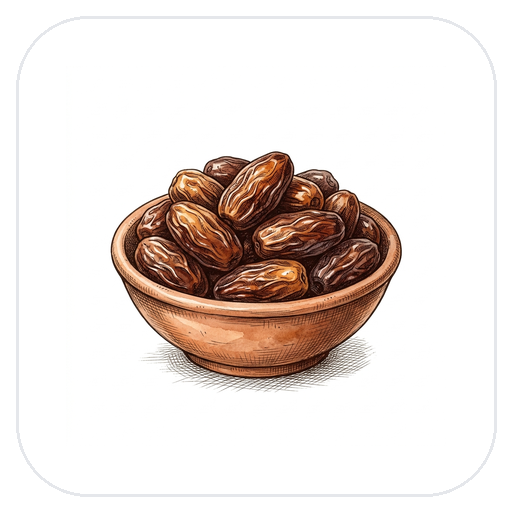
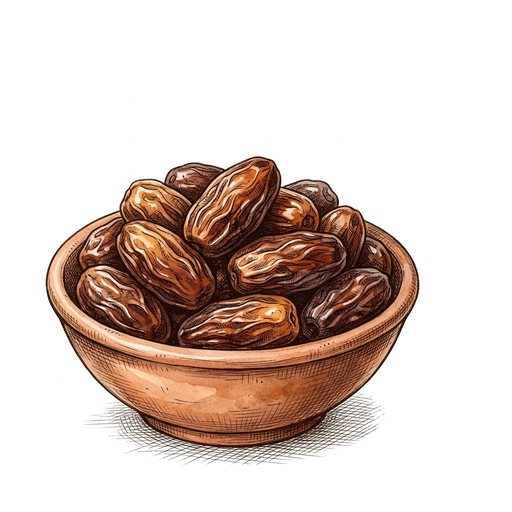
style(category): change category photo container to 4-cornered rounded card (squircle) instead of round

diff --git a/src/components/HomeCategoryShowcase.tsx b/src/components/HomeCategoryShowcase.tsx
@@ -189,23 +189,23 @@ export const HomeCategoryShowcase: React.FC = () => {
                     title={`${item.name} দেখুন`}
                     className="group flex flex-col items-center justify-start w-full text-center transition-all duration-300 focus:outline-hidden cursor-pointer select-none"
                   >
-                    {/* সার্কুলার ব্যাজ র্যাপার উইথ গোল্ডেন লাইটিং রিং */}
+                    {/* ৪ কোণা (Squircle) ব্যাজ র্যাপার উইথ গোল্ডেন লাইটিং রিং */}
                     <div className="relative flex items-center justify-center">
                       {/* লাইটিং অরা / পালসিং হ্যালো */}
                       <div
-                        className={`absolute -inset-1.5 rounded-full transition-all duration-300 opacity-60 group-hover:opacity-100 group-hover:scale-110 blur-[4px] ${
+                        className={`absolute -inset-1.5 rounded-2xl transition-all duration-300 opacity-60 group-hover:opacity-100 group-hover:scale-105 blur-[4px] ${
                           isOffer
                             ? 'bg-gradient-to-tr from-red-500 via-amber-400 to-orange-500 animate-pulse'
                             : 'bg-gradient-to-tr from-amber-300 via-amber-400 to-yellow-200 group-hover:blur-[6px]'
                         }`}
                       />
 
-                      {/* ব্যাজ ইমেজ কন্টেইনার (স্কেল অনুযায়ী বড় ও স্পষ্ট) */}
+                      {/* ব্যাজ ইমেজ কন্টেইনার (৪ কোণা স্কোয়ার্কল কার্ড - স্কেল অনুযায়ী বড় ও স্পষ্ট) */}
                       <div
-                        className={`relative w-12 h-12 sm:w-14 sm:h-14 md:w-16 md:h-16 lg:w-[70px] lg:h-[70px] xl:w-[78px] xl:h-[78px] 2xl:w-[82px] 2xl:h-[82px] rounded-full bg-white p-0.5 sm:p-1 flex items-center justify-center shadow-md transition-all duration-300 group-hover:-translate-y-1 group-hover:scale-105 active:scale-95 ${
+                        className={`relative w-12 h-12 sm:w-14 sm:h-14 md:w-16 md:h-16 lg:w-[70px] lg:h-[70px] xl:w-[78px] xl:h-[78px] 2xl:w-[82px] 2xl:h-[82px] rounded-2xl bg-white p-1 sm:p-1.5 flex items-center justify-center shadow-md transition-all duration-300 group-hover:-translate-y-1 group-hover:scale-105 active:scale-95 ${
                           isOffer
                             ? 'ring-2 ring-red-500/80 shadow-[0_0_12px_rgba(239,68,68,0.35)]'
-                            : 'ring-1.5 ring-amber-400/80 group-hover:ring-2 group-hover:ring-amber-500 shadow-[0_0_10px_rgba(245,158,11,0.25)]'
+                            : 'ring-1.5 ring-amber-400/80 group-hover:ring-2 group-hover:ring-amber-500 shadow-[0_0_10px_rgba(245,158,11,0.22)]'
                         }`}
                       >
                         <Image
@@ -214,7 +214,7 @@ export const HomeCategoryShowcase: React.FC = () => {
                           width={140}
                           height={140}
                           priority
-                          className="w-full h-full object-contain rounded-full transition-transform duration-300 group-hover:rotate-2"
+                          className="w-full h-full object-contain rounded-xl transition-transform duration-300 group-hover:scale-105"
                         />
 
                         {/* অফার ব্যাজ ট্যাগ */}
